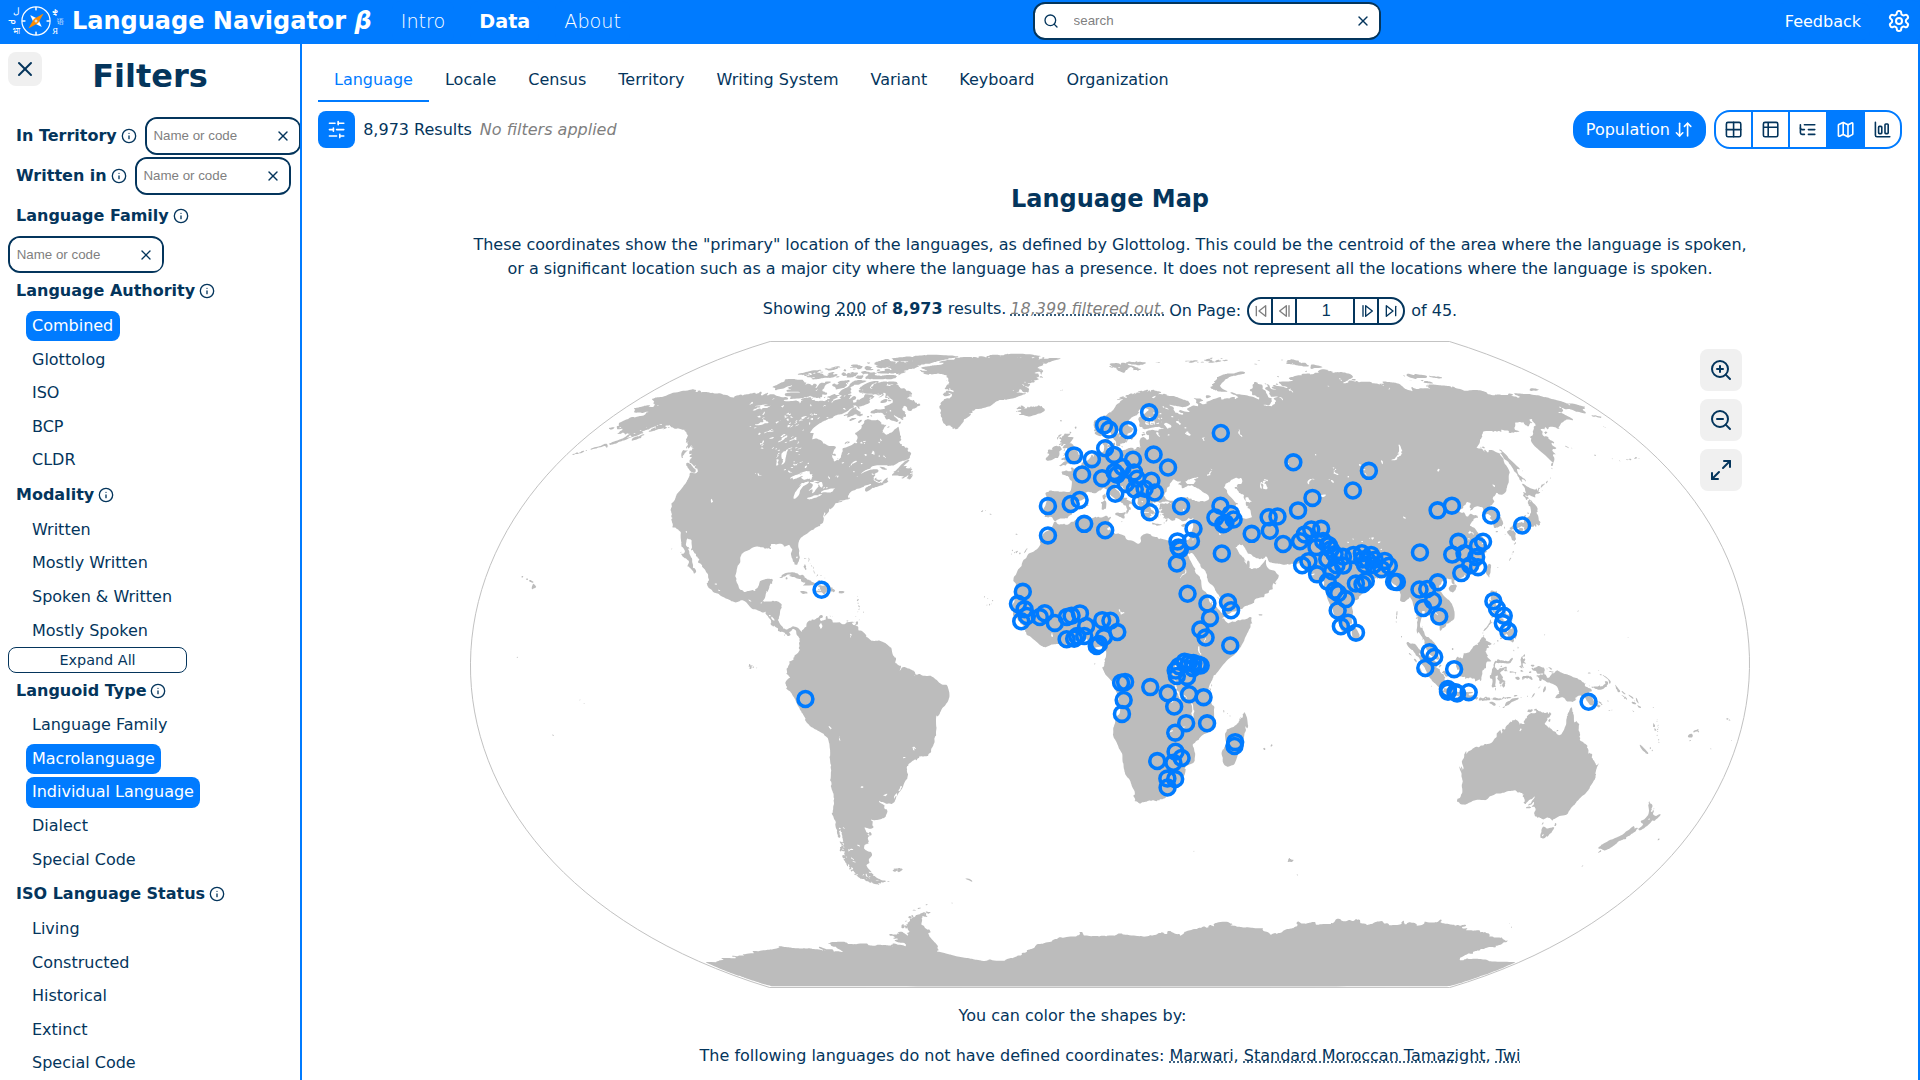
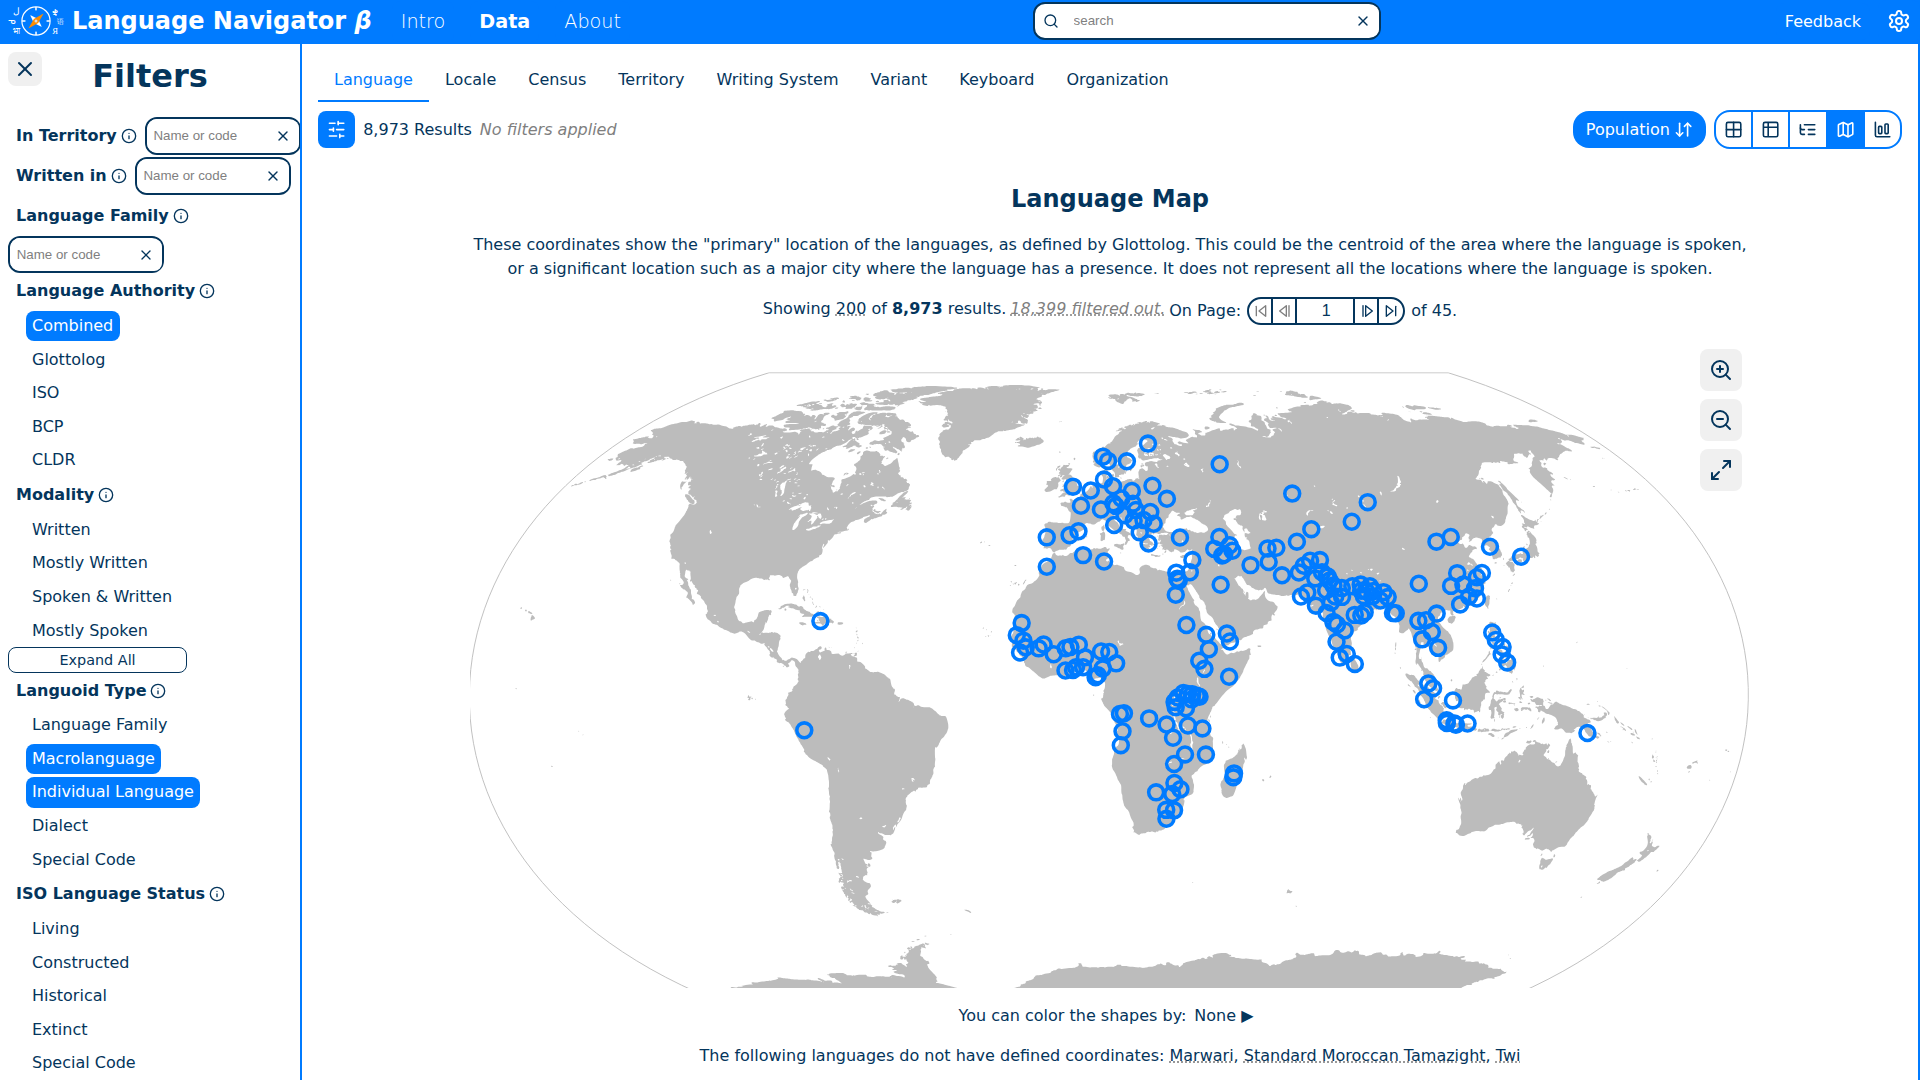
Auto zoom (#720)
Fixes #678

Summary: The map (`EntityMap`) always loaded fully zoomed out to show
the entire world, which was often too far out when only a few entities
were displayed, for example when filtering to a single language family
like Sino-Tibetan. This PR makes the map automatically zoom and center
to fit the currently visible entities on load and whenever the visible
set changes.

### Changes

- User experience
- Map now zooms/centers to fit the visible entities instead of always
showing the whole world.
- Initial load snaps directly to the fitted view (no flash); subsequent
changes to the visible entities animate to re-fit.
  
- Logical changes
- Added `fitBounds(bounds, options)` to the `useMapZoom` hook: scales
and centers the view on a bounding box (in map coordinates) with a
configurable margin, clamped between the base (full-map) scale and the
existing max zoom multiplier.
- `EntityMap` computes the bounding box of the drawable entity centroids
and calls `fitBounds` on load and on entity changes.

### Screenshots
- Before fully zoomed out
<img width="2704" height="1618" alt="image"
src="https://github.com/user-attachments/assets/83541193-e6cf-4bd6-9a57-4f86e78a17c2"
/>

- Map now zooms
<img width="1347" height="806" alt="image"
src="https://github.com/user-attachments/assets/73403d39-f22f-40fb-b8c8-c80c61183418"
/>

---------

Pull request: Auto zoom
Fixes #678

Summary: The map (`EntityMap`) always loaded fully zoomed out to show the entire world, which was often too far out when only a few entities were displayed, for example when filtering to a single language family like Sino-Tibetan. This PR makes the map automatically zoom and center to fit the currently visible entities on load and whenever the visible set changes.

### Changes

- User experience
  - Map now zooms/centers to fit the visible entities instead of always showing the whole world.
  - Initial load snaps directly to the fitted view (no flash); subsequent changes to the visible entities animate to re-fit.
  
- Logical changes
  - Added `fitBounds(bounds, options)` to the `useMapZoom` hook: scales and centers the view on a bounding box (in map coordinates) with a configurable margin, clamped between the base (full-map) scale and the existing max zoom multiplier.
  - `EntityMap` computes the bounding box of the drawable entity centroids and calls `fitBounds` on load and on entity changes.


### Screenshots
- Before fully zoomed out
<img width="2704" height="1618" alt="image" src="https://github.com/user-attachments/assets/83541193-e6cf-4bd6-9a57-4f86e78a17c2" />

- Map now zooms
<img width="1347" height="806" alt="image" src="https://github.com/user-attachments/assets/73403d39-f22f-40fb-b8c8-c80c61183418" />

Changed region(s): [[0.3125, 0.3056, 0.875, 0.7944], [0.375, 0.7333, 0.7812, 0.9167], [0.625, 0.9167, 0.6562, 0.9472]]

diff --git a/src/features/map/UseMapZoom.tsx b/src/features/map/UseMapZoom.tsx
@@ -35,6 +35,21 @@ export type ZoomControlHandlers = {
   resetTransform: () => void;
 };
 
+/** A bounding box expressed in map coordinates (same units as mapWidth/mapHeight). */
+export type MapBounds = {
+  minX: number;
+  minY: number;
+  maxX: number;
+  maxY: number;
+};
+
+type FitBoundsOptions = {
+  /** Fraction of the viewport to leave as margin around the bounds (0..1). Default 0.15. */
+  padding?: number;
+  /** Transition duration in ms. 0 (default) applies the transform instantly. */
+  duration?: number;
+};
+
 type UseMapZoomReturn = {
   /** Ref to attach to the container (viewport) element */
   containerRef: React.RefObject<HTMLDivElement | null>;
@@ -46,6 +61,8 @@ type UseMapZoomReturn = {
   zoomOut: () => void;
   /** Reset zoom handler */
   resetTransform: () => void;
+  /** Zoom/pan so the given bounds (in map coordinates) fill the viewport. */
+  fitBounds: (bounds: MapBounds, options?: FitBoundsOptions) => void;
 };
 
 // =============================================================================
@@ -228,12 +245,58 @@ export const useMapZoom = ({
     }
   }, [mapWidth]);
 
+  const fitBounds = useCallback(
+    (bounds: MapBounds, options?: FitBoundsOptions) => {
+      const selection = selectionRef.current;
+      const zoomBehavior = zoomBehaviorRef.current;
+      const container = containerRef.current;
+      if (!selection || !zoomBehavior || !container) return;
+
+      const containerWidth = container.clientWidth;
+      const containerHeight = container.clientHeight;
+      if (containerWidth === 0 || containerHeight === 0) return;
+
+      const padding = options?.padding ?? 0.15;
+      const duration = options?.duration ?? 0;
+
+      const boundsWidth = bounds.maxX - bounds.minX;
+      const boundsHeight = bounds.maxY - bounds.minY;
+      const centerX = (bounds.minX + bounds.maxX) / 2;
+      const centerY = (bounds.minY + bounds.maxY) / 2;
+
+      // The base scale shows the full map; never zoom out further than that, and cap
+      // zooming in at the same multiplier used by the manual zoom controls.
+      const baseScale = containerWidth / mapWidth;
+      const minScale = baseScale;
+      const maxScale = baseScale * maxZoomMultiplier;
+
+      const usableWidth = containerWidth * (1 - padding);
+      const usableHeight = containerHeight * (1 - padding);
+      const scaleX = boundsWidth > 0 ? usableWidth / boundsWidth : maxScale;
+      const scaleY = boundsHeight > 0 ? usableHeight / boundsHeight : maxScale;
+      let scale = Math.min(scaleX, scaleY);
+      scale = Math.max(minScale, Math.min(maxScale, scale));
+
+      const tx = containerWidth / 2 - centerX * scale;
+      const ty = containerHeight / 2 - centerY * scale;
+      const transform = zoomIdentity.translate(tx, ty).scale(scale);
+
+      if (duration > 0) {
+        selection.transition().duration(duration).call(zoomBehavior.transform, transform);
+      } else {
+        selection.call(zoomBehavior.transform, transform);
+      }
+    },
+    [mapWidth, maxZoomMultiplier],
+  );
+
   return {
     containerRef,
     contentRef,
     zoomIn,
     zoomOut,
     resetTransform,
+    fitBounds,
   };
 };
 

diff --git a/src/features/map/EntityMap.tsx b/src/features/map/EntityMap.tsx
@@ -14,8 +14,14 @@ import { ObjectData } from '@entities/types/DataTypes';
 import { uniqueBy } from '@shared/lib/setUtils';
 
 import DrawableData from './DrawableData';
+import { getRobinsonCoordinatesShifted } from './getRobinsonCoordinates';
 import MapCentroids from './MapCentroids';
-import { MAP_ASPECT_RATIO, MAP_INTERNAL_WIDTH } from './MapConsts';
+import {
+  MAP_ASPECT_RATIO,
+  MAP_INTERNAL_WIDTH,
+  MAP_ROBINSON_X_SCALE,
+  MAP_ROBINSON_Y_SCALE,
+} from './MapConsts';
 import MapSidebar from './MapSidebar';
 import MapTerritories from './MapTerritories';
 import useMapZoom from './UseMapZoom';
@@ -43,6 +49,7 @@ const EntityMap: React.FC<Props> = ({ entities, maxWidth = 2000, allowSidebar = 
     zoomIn,
     zoomOut,
     resetTransform,
+    fitBounds,
   } = useMapZoom({
     mapWidth: MAP_INTERNAL_WIDTH,
     mapHeight,
@@ -83,6 +90,46 @@ const EntityMap: React.FC<Props> = ({ entities, maxWidth = 2000, allowSidebar = 
       (t) => t.ID,
     ) as TerritoryData[];
   }, [objectType, entities]);
+
+  // Bounding box (in map coordinates) of the entities that will be drawn as centroids,
+  // so we can zoom the map to fit them instead of always showing the whole world.
+  const entityBounds = useMemo(() => {
+    // The centroid SVG uses viewBox "-180 -90 360 180" with preserveAspectRatio
+    // "xMidYMid meet", rendered into the content element (MAP_INTERNAL_WIDTH x mapHeight).
+    const svgScale = Math.min(MAP_INTERNAL_WIDTH / 360, mapHeight / 180);
+    const offsetX = (MAP_INTERNAL_WIDTH - 360 * svgScale) / 2;
+    const offsetY = (mapHeight - 180 * svgScale) / 2;
+
+    let minX = Infinity;
+    let minY = Infinity;
+    let maxX = -Infinity;
+    let maxY = -Infinity;
+    let count = 0;
+
+    drawableEntities.forEach((obj) => {
+      if (obj.latitude == null || obj.longitude == null) return;
+      const { x, y } = getRobinsonCoordinatesShifted(obj);
+      const mapX = (x * MAP_ROBINSON_X_SCALE + 180) * svgScale + offsetX;
+      const mapY = (-y * MAP_ROBINSON_Y_SCALE + 90) * svgScale + offsetY;
+      minX = Math.min(minX, mapX);
+      maxX = Math.max(maxX, mapX);
+      minY = Math.min(minY, mapY);
+      maxY = Math.max(maxY, mapY);
+      count++;
+    });
+
+    if (count === 0) return null;
+    return { minX, minY, maxX, maxY };
+  }, [drawableEntities, mapHeight]);
+
+  const hasInitialFitRef = useRef(false);
+  useEffect(() => {
+    if (!entityBounds) return;
+    // Instant on first load to avoid a flash from full-map to fitted; animate afterwards
+    // when the visible entities change.
+    fitBounds(entityBounds, { duration: hasInitialFitRef.current ? 400 : 0 });
+    hasInitialFitRef.current = true;
+  }, [entityBounds, fitBounds]);
 
   const coloringFunctions = useColors({ objects: drawableEntities });
 